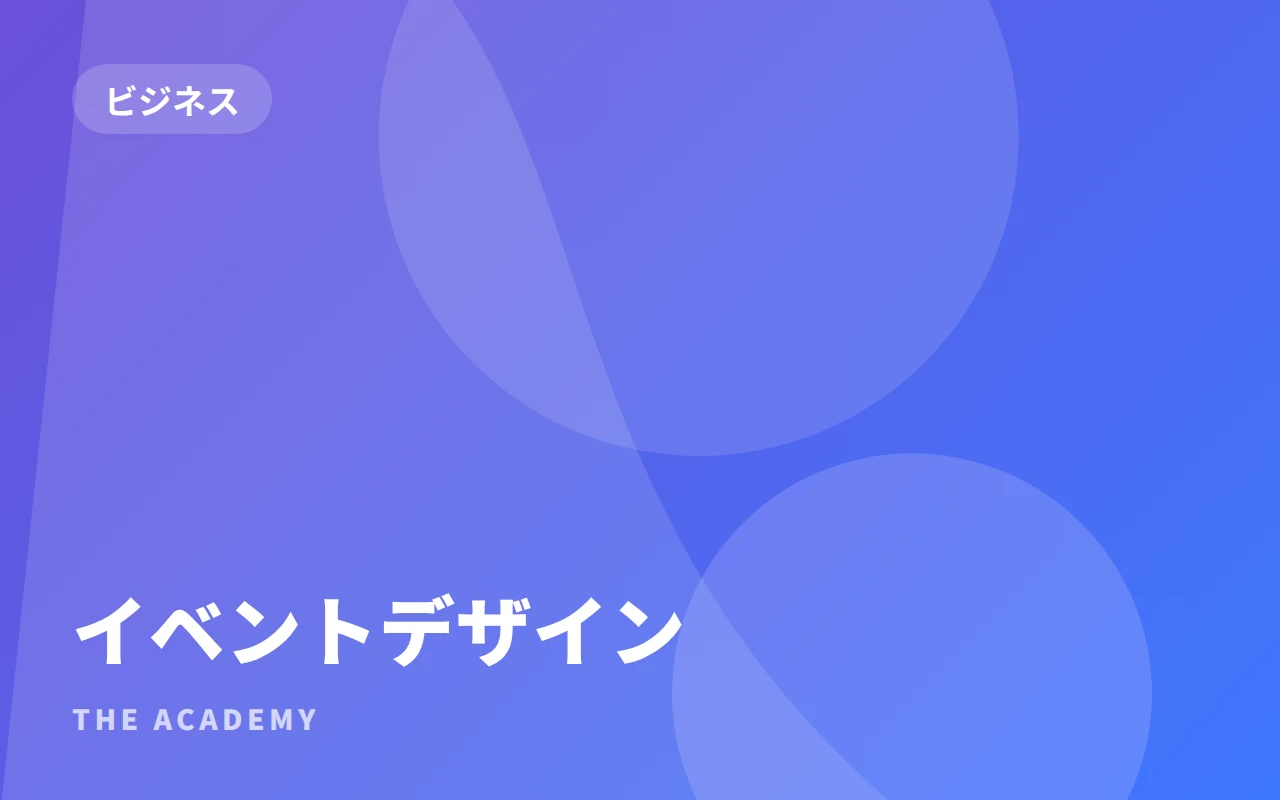
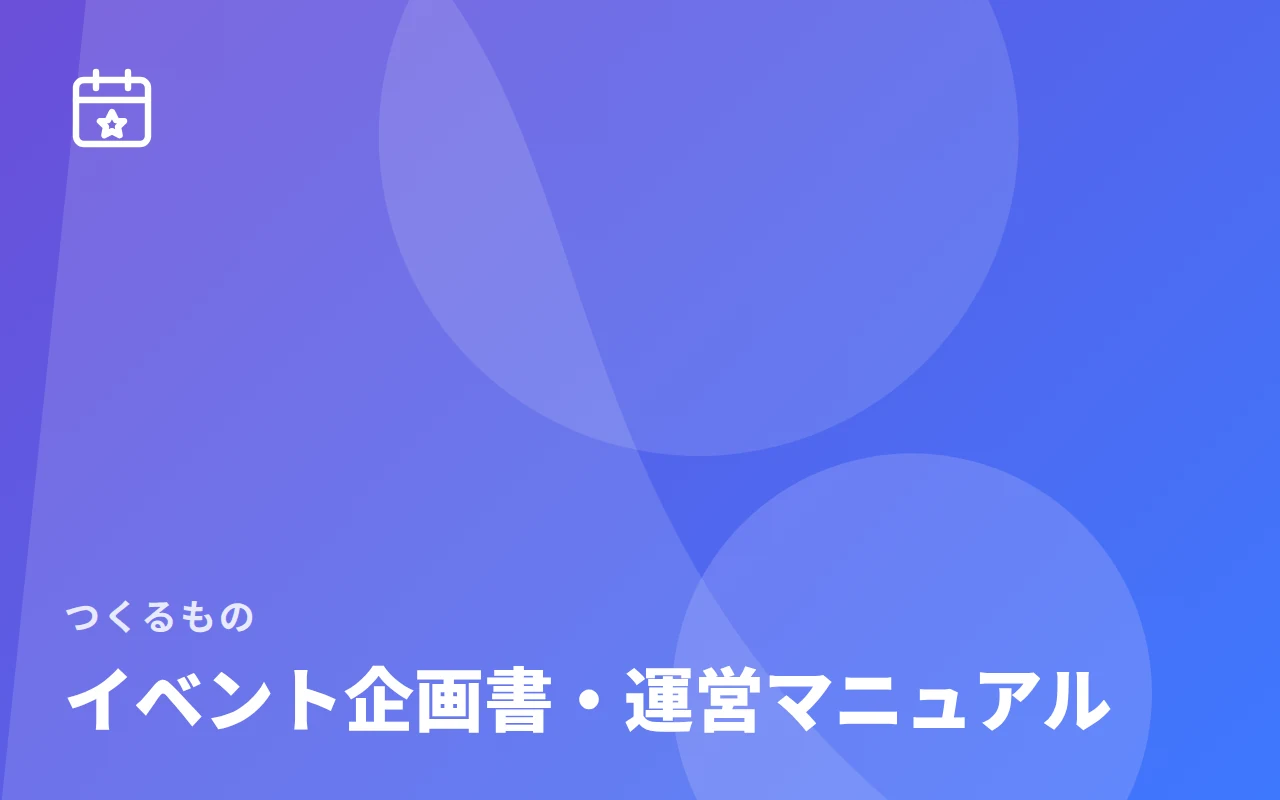
サムネイルの中身を「つくるもの」（成果物の名前）に変更（背景は C-4 のまま）
- コース名・カテゴリはカードに出るため、サムネイルには小さな線アイコンと成果物の名前を入れる
- 成果物の名前（DELIV）を gen_courses.py に移し、コース詳細とサムネイルで共通にした

Claude-Session: https://claude.ai/code/session_018bY9jRKEdcKYTrkj9d6ZsY

Changed region(s): [[0.0312, 0.75, 0.875, 0.9375], [0.0312, 0.0625, 0.2188, 0.1875]]

diff --git a/lp/docs/replace-list.html b/lp/docs/replace-list.html
@@ -60,7 +60,7 @@ a:focus-visible, button:focus-visible, input:focus-visible { outline: 2px solid 
 <p class="status" id="st">チェックの保存先に接続しています…</p>
 
 <section id="img" aria-labelledby="h-img"><h2 id="h-img">画像（20）</h2><p>差し替え＝仮のもの、確認＝このまま使えるか判断、確定＝このまま使う。</p>
-<div class="tbl"><table><thead><tr><th><span class="sr">完了</span></th><th>ID</th><th>優先</th><th>状態</th><th>ページ・箇所</th><th>素材と、いまの中身</th><th>対応</th><th>完了の条件</th></tr></thead><tbody><tr data-p="高" data-id="I01"><td><label class="ck" for="c-I01"><input type="checkbox" id="c-I01" data-id="I01" disabled><span class="sr">I01 を完了にする</span></label></td><td class="id">I01</td><td><span class="pr pr--h">高</span></td><td><span class="pill pill--c">確認</span></td><th scope="row">トップ<small>HERO</small></th><td><code>assets/hero.webp</code><p>AIで作った写真（候補から採用）</p></td><td>本番でもこの画像を使うか決める。ほかの案（H-A〜H-D、おすすめは H-B 写真＋成果物カード）を提示済み</td><td class="done">案を決め、写真を使う場合は生成ツールの利用規約と人物の写り（実在の人に見えないか）を確認した</td></tr><tr data-p="高" data-id="I02"><td><label class="ck" for="c-I02"><input type="checkbox" id="c-I02" data-id="I02" disabled><span class="sr">I02 を完了にする</span></label></td><td class="id">I02</td><td><span class="pr pr--h">高</span></td><td><span class="pill pill--o">確定</span></td><th scope="row">ポートフォリオ・はじめての方へ<small>見出し／SHOW／例</small></th><td><code>assets/portfolio/*.webp（12枚）</code><p>実際の画面を匿名化したもの（X風ニックネーム）</p></td><td>そのまま使用（10/8 に確定）</td><td class="done">Wix に入れ、表示を確認した</td></tr><tr data-p="高" data-id="I03"><td><label class="ck" for="c-I03"><input type="checkbox" id="c-I03" data-id="I03" disabled><span class="sr">I03 を完了にする</span></label></td><td class="id">I03</td><td><span class="pr pr--h">高</span></td><td><span class="pill pill--w">差し替え</span></td><th scope="row">コース詳細（SNS 以外の12ページ）<small>成果物の画像</small></th><td><code>（CSS で描いた仮画像）</code><p>カテゴリ色の仮画像＋「成果物の画像（準備中）」</p></td><td>画像の型を選ぶ（D-A〜D-D、おすすめは D-B 成果物の模型。実物ができたら D-A に）→ 全コース分を用意。すべて「作例」と表示</td><td class="done">12コースすべてに成果物の画像が入り、「準備中」の表示がない</td></tr><tr data-p="高" data-id="I04"><td><label class="ck" for="c-I04"><input type="checkbox" id="c-I04" data-id="I04" disabled><span class="sr">I04 を完了にする</span></label></td><td class="id">I04</td><td><span class="pr pr--h">高</span></td><td><span class="pill pill--o">確定</span></td><th scope="row">学び方・受講成果<small>受講成果</small></th><td><code>assets/outcomes/*.webp（6枚）</code><p>見本として作った成果物の画像（各画像に「作例」と表示）</p></td><td>そのまま使用（10/8 に確定。「作例」と明記済み）</td><td class="done">Wix に入れ、各画像に「作例」が表示されている</td></tr><tr data-p="中" data-id="I05"><td><label class="ck" for="c-I05"><input type="checkbox" id="c-I05" data-id="I05" disabled><span class="sr">I05 を完了にする</span></label></td><td class="id">I05</td><td><span class="pr pr--m">中</span></td><td><span class="pill pill--o">確定</span></td><th scope="row">トップ・コースを探す・受講までの流れ<small>人気のコース／コース一覧／流れ／関連するコース</small></th><td><code>assets/thumbs/*.webp（13枚）</code><p>C-4（カテゴリ色のグラデーション＋半透明の形）のサムネイル。gen_thumbs.py でコース一覧のデータから作成</p></td><td>そのまま使用。Wix ストアの商品画像にも同じ画像を入れる。コースを足したら gen_thumbs.py で作る</td><td class="done">Wix の商品画像とサイトのサムネイルが同じ画像になっている</td></tr><tr data-p="中" data-id="I06"><td><label class="ck" for="c-I06"><input type="checkbox" id="c-I06" data-id="I06" disabled><span class="sr">I06 を完了にする</span></label></td><td class="id">I06</td><td><span class="pr pr--m">中</span></td><td><span class="pill pill--w">差し替え</span></td><th scope="row">コース詳細（SNS）・ポートフォリオ<small>成果物／フィード</small></th><td><code>assets/outcomes/sns-design.webp</code><p>SNS の成果物画像（見本）</p></td><td>I03 と同じ型で用意（「作例」と表示）</td><td class="done">I03 と同じ型になっている</td></tr><tr data-p="中" data-id="I07"><td><label class="ck" for="c-I07"><input type="checkbox" id="c-I07" data-id="I07" disabled><span class="sr">I07 を完了にする</span></label></td><td class="id">I07</td><td><span class="pr pr--m">中</span></td><td><span class="pill pill--o">確定</span></td><th scope="row">コースを探す<small>特集</small></th><td><code>assets/courses/feat-slack・feat-toeic.webp</code><p>Slack×GAS・TOEIC の特集画像</p></td><td>そのまま使用（10/8 に確定）</td><td class="done">Wix に入れ、表示を確認した</td></tr><tr data-p="中" data-id="I08"><td><label class="ck" for="c-I08"><input type="checkbox" id="c-I08" data-id="I08" disabled><span class="sr">I08 を完了にする</span></label></td><td class="id">I08</td><td><span class="pr pr--m">中</span></td><td><span class="pill pill--w">差し替え</span></td><th scope="row">トップ・学びのヒント<small>記事カード</small></th><td><code>assets/journal/ai・career・sns.webp</code><p>記事のアイキャッチ（見本）</p></td><td>アイキャッチの型を選ぶ（E-A〜E-D、おすすめは E-B キーワード型）→ 記事ごとに作る</td><td class="done">トップと学びのヒントに出る記事が、実際の記事のアイキャッチになっている</td></tr><tr data-p="中" data-id="I09"><td><label class="ck" for="c-I09"><input type="checkbox" id="c-I09" data-id="I09" disabled><span class="sr">I09 を完了にする</span></label></td><td class="id">I09</td><td><span class="pr pr--m">中</span></td><td><span class="pill pill--w">差し替え</span></td><th scope="row">学びのヒント<small>アクセスの多い記事／評価の高い記事／最新記事</small></th><td><code>assets/outcomes・how・portfolio の画像</code><p>記事のアイキャッチの代わりに、成果物・学び方・ポートフォリオの画像を仮で使用</p></td><td>当面は E-C（同じ枠に入れて「仮の画像」と表示）、記事を公開するときに I08 の型へ</td><td class="done">ほかのページの画像を流用しているカードがない</td></tr><tr data-p="中" data-id="I10"><td><label class="ck" for="c-I10"><input type="checkbox" id="c-I10" data-id="I10" disabled><span class="sr">I10 を完了にする</span></label></td><td class="id">I10</td><td><span class="pr pr--m">中</span></td><td><span class="pill pill--c">確認</span></td><th scope="row">無料相談・資料請求<small>パンフレットのタブ</small></th><td><code>assets/pamphlet/cover.webp</code><p>パンフレットの表紙</p></td><td>最新版のパンフレットの表紙か確認</td><td class="done">ダウンロードできる PDF と同じ表紙になっている</td></tr><tr data-p="中" data-id="I11"><td><label class="ck" for="c-I11"><input type="checkbox" id="c-I11" data-id="I11" disabled><span class="sr">I11 を完了にする</span></label></td><td class="id">I11</td><td><span class="pr pr--m">中</span></td><td><span class="pill pill--w">差し替え</span></td><th scope="row">お役立ち資料<small>新着／一覧</small></th><td><code>（CSS で描いた表紙）</code><p>資料名を書いた色違いの仮の表紙</p></td><td>実際の資料の表紙に</td><td class="done">掲載する資料すべてに実際の表紙が入っている</td></tr><tr data-p="中" data-id="I12"><td><label class="ck" for="c-I12"><input type="checkbox" id="c-I12" data-id="I12" disabled><span class="sr">I12 を完了にする</span></label></td><td class="id">I12</td><td><span class="pr pr--m">中</span></td><td><span class="pill pill--c">確認</span></td><th scope="row">数字の根拠<small>満足度・コース数</small></th><td><code>（SVG で描いたグラフ）</code><p>レーダーチャートとカテゴリ別の棒グラフ</p></td><td>本番の数字に変えたら作り直す</td><td class="done">グラフの値が、表と本文の数字と一致している</td></tr><tr data-p="中" data-id="I13"><td><label class="ck" for="c-I13"><input type="checkbox" id="c-I13" data-id="I13" disabled><span class="sr">I13 を完了にする</span></label></td><td class="id">I13</td><td><span class="pr pr--m">中</span></td><td><span class="pill pill--w">差し替え</span></td><th scope="row">全ページ<small>SNS で共有したときの画像</small></th><td><code>（なし）</code><p>OGP 画像がない</p></td><td>1200×630 の画像を新しく作る</td><td class="done">トップと主要ページで、SNS に URL を貼ると画像が表示される</td></tr><tr data-p="低" data-id="I14"><td><label class="ck" for="c-I14"><input type="checkbox" id="c-I14" data-id="I14" disabled><span class="sr">I14 を完了にする</span></label></td><td class="id">I14</td><td><span class="pr pr--l">低</span></td><td><span class="pill pill--c">確認</span></td><th scope="row">トップ<small>04 ポートフォリオ</small></th><td><code>assets/courses/ai・marketing.webp</code><p>ポートフォリオ画面の中のコース画像</p></td><td>I05 を差し替えたら同じ画像にそろえる</td><td class="done">コースのサムネイルと同じ画像になっている</td></tr><tr data-p="低" data-id="I15"><td><label class="ck" for="c-I15"><input type="checkbox" id="c-I15" data-id="I15" disabled><span class="sr">I15 を完了にする</span></label></td><td class="id">I15</td><td><span class="pr pr--l">低</span></td><td><span class="pill pill--c">確認</span></td><th scope="row">学び方・受講成果<small>4ステップ</small></th><td><code>assets/how/step-01〜04.webp</code><p>学びの4ステップの画面イメージ</p></td><td>実際の受講画面に近いか確認</td><td class="done">実際の画面と大きく違わないと確認した</td></tr><tr data-p="低" data-id="I16"><td><label class="ck" for="c-I16"><input type="checkbox" id="c-I16" data-id="I16" disabled><span class="sr">I16 を完了にする</span></label></td><td class="id">I16</td><td><span class="pr pr--l">低</span></td><td><span class="pill pill--w">差し替え</span></td><th scope="row">記事ページ（見本）<small>冒頭・著者</small></th><td><code>（「写真」の枠）</code><p>著者・監修者の写真の枠</p></td><td>著者の写真を用意（なければ枠ごと外す）</td><td class="done">写真が入っている、または枠がない</td></tr><tr data-p="低" data-id="I17"><td><label class="ck" for="c-I17"><input type="checkbox" id="c-I17" data-id="I17" disabled><span class="sr">I17 を完了にする</span></label></td><td class="id">I17</td><td><span class="pr pr--l">低</span></td><td><span class="pill pill--o">確定</span></td><th scope="row">はじめての方へ<small>ABOUT／FOR YOU</small></th><td><code>assets/illust/about-community・for-you-1〜3.webp</code><p>作成したイラスト</p></td><td>そのまま使用</td><td class="done">Wix に入れ、表示を確認した</td></tr><tr data-p="低" data-id="I18"><td><label class="ck" for="c-I18"><input type="checkbox" id="c-I18" data-id="I18" disabled><span class="sr">I18 を完了にする</span></label></td><td class="id">I18</td><td><span class="pr pr--l">低</span></td><td><span class="pill pill--o">確定</span></td><th scope="row">全ページ<small>NEXT STEP</small></th><td><code>assets/illust/next-zoom.webp</code><p>オンライン相談の画面とパンフレットのイラスト（17か所で共通）</p></td><td>そのまま使用</td><td class="done">Wix に入れ、表示を確認した</td></tr><tr data-p="低" data-id="I19"><td><label class="ck" for="c-I19"><input type="checkbox" id="c-I19" data-id="I19" disabled><span class="sr">I19 を完了にする</span></label></td><td class="id">I19</td><td><span class="pr pr--l">低</span></td><td><span class="pill pill--o">確定</span></td><th scope="row">全ページ<small>ヘッダー・フッター</small></th><td><code>assets/academy_logo_blue_trim.png</code><p>ロゴ</p></td><td>そのまま使用（SVG があれば SVG）</td><td class="done">Wix に入れ、表示を確認した</td></tr><tr data-p="低" data-id="I20"><td><label class="ck" for="c-I20"><input type="checkbox" id="c-I20" data-id="I20" disabled><span class="sr">I20 を完了にする</span></label></td><td class="id">I20</td><td><span class="pr pr--l">低</span></td><td><span class="pill pill--o">確定</span></td><th scope="row">数字の根拠<small>自由回答</small></th><td><code>assets/avatars/*.svg（3種）</code><p>用意いただいたアイコン</p></td><td>そのまま使用</td><td class="done">Wix に入れ、表示を確認した</td></tr></tbody></table></div></section>
+<div class="tbl"><table><thead><tr><th><span class="sr">完了</span></th><th>ID</th><th>優先</th><th>状態</th><th>ページ・箇所</th><th>素材と、いまの中身</th><th>対応</th><th>完了の条件</th></tr></thead><tbody><tr data-p="高" data-id="I01"><td><label class="ck" for="c-I01"><input type="checkbox" id="c-I01" data-id="I01" disabled><span class="sr">I01 を完了にする</span></label></td><td class="id">I01</td><td><span class="pr pr--h">高</span></td><td><span class="pill pill--c">確認</span></td><th scope="row">トップ<small>HERO</small></th><td><code>assets/hero.webp</code><p>AIで作った写真（候補から採用）</p></td><td>本番でもこの画像を使うか決める。ほかの案（H-A〜H-D、おすすめは H-B 写真＋成果物カード）を提示済み</td><td class="done">案を決め、写真を使う場合は生成ツールの利用規約と人物の写り（実在の人に見えないか）を確認した</td></tr><tr data-p="高" data-id="I02"><td><label class="ck" for="c-I02"><input type="checkbox" id="c-I02" data-id="I02" disabled><span class="sr">I02 を完了にする</span></label></td><td class="id">I02</td><td><span class="pr pr--h">高</span></td><td><span class="pill pill--o">確定</span></td><th scope="row">ポートフォリオ・はじめての方へ<small>見出し／SHOW／例</small></th><td><code>assets/portfolio/*.webp（12枚）</code><p>実際の画面を匿名化したもの（X風ニックネーム）</p></td><td>そのまま使用（10/8 に確定）</td><td class="done">Wix に入れ、表示を確認した</td></tr><tr data-p="高" data-id="I03"><td><label class="ck" for="c-I03"><input type="checkbox" id="c-I03" data-id="I03" disabled><span class="sr">I03 を完了にする</span></label></td><td class="id">I03</td><td><span class="pr pr--h">高</span></td><td><span class="pill pill--w">差し替え</span></td><th scope="row">コース詳細（SNS 以外の12ページ）<small>成果物の画像</small></th><td><code>（CSS で描いた仮画像）</code><p>カテゴリ色の仮画像＋「成果物の画像（準備中）」</p></td><td>画像の型を選ぶ（D-A〜D-D、おすすめは D-B 成果物の模型。実物ができたら D-A に）→ 全コース分を用意。すべて「作例」と表示</td><td class="done">12コースすべてに成果物の画像が入り、「準備中」の表示がない</td></tr><tr data-p="高" data-id="I04"><td><label class="ck" for="c-I04"><input type="checkbox" id="c-I04" data-id="I04" disabled><span class="sr">I04 を完了にする</span></label></td><td class="id">I04</td><td><span class="pr pr--h">高</span></td><td><span class="pill pill--o">確定</span></td><th scope="row">学び方・受講成果<small>受講成果</small></th><td><code>assets/outcomes/*.webp（6枚）</code><p>見本として作った成果物の画像（各画像に「作例」と表示）</p></td><td>そのまま使用（10/8 に確定。「作例」と明記済み）</td><td class="done">Wix に入れ、各画像に「作例」が表示されている</td></tr><tr data-p="中" data-id="I05"><td><label class="ck" for="c-I05"><input type="checkbox" id="c-I05" data-id="I05" disabled><span class="sr">I05 を完了にする</span></label></td><td class="id">I05</td><td><span class="pr pr--m">中</span></td><td><span class="pill pill--o">確定</span></td><th scope="row">トップ・コースを探す・受講までの流れ<small>人気のコース／コース一覧／流れ／関連するコース</small></th><td><code>assets/thumbs/*.webp（13枚）</code><p>C-4 の背景＋「つくるもの」（成果物の名前）のサムネイル。gen_thumbs.py でコース一覧のデータから作成。成果物の名前が決まったら作り直す（T05）</p></td><td>そのまま使用。Wix ストアの商品画像にも同じ画像を入れる。コースを足したら gen_thumbs.py で作る</td><td class="done">Wix の商品画像とサイトのサムネイルが同じ画像になっている</td></tr><tr data-p="中" data-id="I06"><td><label class="ck" for="c-I06"><input type="checkbox" id="c-I06" data-id="I06" disabled><span class="sr">I06 を完了にする</span></label></td><td class="id">I06</td><td><span class="pr pr--m">中</span></td><td><span class="pill pill--w">差し替え</span></td><th scope="row">コース詳細（SNS）・ポートフォリオ<small>成果物／フィード</small></th><td><code>assets/outcomes/sns-design.webp</code><p>SNS の成果物画像（見本）</p></td><td>I03 と同じ型で用意（「作例」と表示）</td><td class="done">I03 と同じ型になっている</td></tr><tr data-p="中" data-id="I07"><td><label class="ck" for="c-I07"><input type="checkbox" id="c-I07" data-id="I07" disabled><span class="sr">I07 を完了にする</span></label></td><td class="id">I07</td><td><span class="pr pr--m">中</span></td><td><span class="pill pill--o">確定</span></td><th scope="row">コースを探す<small>特集</small></th><td><code>assets/courses/feat-slack・feat-toeic.webp</code><p>Slack×GAS・TOEIC の特集画像</p></td><td>そのまま使用（10/8 に確定）</td><td class="done">Wix に入れ、表示を確認した</td></tr><tr data-p="中" data-id="I08"><td><label class="ck" for="c-I08"><input type="checkbox" id="c-I08" data-id="I08" disabled><span class="sr">I08 を完了にする</span></label></td><td class="id">I08</td><td><span class="pr pr--m">中</span></td><td><span class="pill pill--w">差し替え</span></td><th scope="row">トップ・学びのヒント<small>記事カード</small></th><td><code>assets/journal/ai・career・sns.webp</code><p>記事のアイキャッチ（見本）</p></td><td>アイキャッチの型を選ぶ（E-A〜E-D、おすすめは E-B キーワード型）→ 記事ごとに作る</td><td class="done">トップと学びのヒントに出る記事が、実際の記事のアイキャッチになっている</td></tr><tr data-p="中" data-id="I09"><td><label class="ck" for="c-I09"><input type="checkbox" id="c-I09" data-id="I09" disabled><span class="sr">I09 を完了にする</span></label></td><td class="id">I09</td><td><span class="pr pr--m">中</span></td><td><span class="pill pill--w">差し替え</span></td><th scope="row">学びのヒント<small>アクセスの多い記事／評価の高い記事／最新記事</small></th><td><code>assets/outcomes・how・portfolio の画像</code><p>記事のアイキャッチの代わりに、成果物・学び方・ポートフォリオの画像を仮で使用</p></td><td>当面は E-C（同じ枠に入れて「仮の画像」と表示）、記事を公開するときに I08 の型へ</td><td class="done">ほかのページの画像を流用しているカードがない</td></tr><tr data-p="中" data-id="I10"><td><label class="ck" for="c-I10"><input type="checkbox" id="c-I10" data-id="I10" disabled><span class="sr">I10 を完了にする</span></label></td><td class="id">I10</td><td><span class="pr pr--m">中</span></td><td><span class="pill pill--c">確認</span></td><th scope="row">無料相談・資料請求<small>パンフレットのタブ</small></th><td><code>assets/pamphlet/cover.webp</code><p>パンフレットの表紙</p></td><td>最新版のパンフレットの表紙か確認</td><td class="done">ダウンロードできる PDF と同じ表紙になっている</td></tr><tr data-p="中" data-id="I11"><td><label class="ck" for="c-I11"><input type="checkbox" id="c-I11" data-id="I11" disabled><span class="sr">I11 を完了にする</span></label></td><td class="id">I11</td><td><span class="pr pr--m">中</span></td><td><span class="pill pill--w">差し替え</span></td><th scope="row">お役立ち資料<small>新着／一覧</small></th><td><code>（CSS で描いた表紙）</code><p>資料名を書いた色違いの仮の表紙</p></td><td>実際の資料の表紙に</td><td class="done">掲載する資料すべてに実際の表紙が入っている</td></tr><tr data-p="中" data-id="I12"><td><label class="ck" for="c-I12"><input type="checkbox" id="c-I12" data-id="I12" disabled><span class="sr">I12 を完了にする</span></label></td><td class="id">I12</td><td><span class="pr pr--m">中</span></td><td><span class="pill pill--c">確認</span></td><th scope="row">数字の根拠<small>満足度・コース数</small></th><td><code>（SVG で描いたグラフ）</code><p>レーダーチャートとカテゴリ別の棒グラフ</p></td><td>本番の数字に変えたら作り直す</td><td class="done">グラフの値が、表と本文の数字と一致している</td></tr><tr data-p="中" data-id="I13"><td><label class="ck" for="c-I13"><input type="checkbox" id="c-I13" data-id="I13" disabled><span class="sr">I13 を完了にする</span></label></td><td class="id">I13</td><td><span class="pr pr--m">中</span></td><td><span class="pill pill--w">差し替え</span></td><th scope="row">全ページ<small>SNS で共有したときの画像</small></th><td><code>（なし）</code><p>OGP 画像がない</p></td><td>1200×630 の画像を新しく作る</td><td class="done">トップと主要ページで、SNS に URL を貼ると画像が表示される</td></tr><tr data-p="低" data-id="I14"><td><label class="ck" for="c-I14"><input type="checkbox" id="c-I14" data-id="I14" disabled><span class="sr">I14 を完了にする</span></label></td><td class="id">I14</td><td><span class="pr pr--l">低</span></td><td><span class="pill pill--c">確認</span></td><th scope="row">トップ<small>04 ポートフォリオ</small></th><td><code>assets/courses/ai・marketing.webp</code><p>ポートフォリオ画面の中のコース画像</p></td><td>I05 を差し替えたら同じ画像にそろえる</td><td class="done">コースのサムネイルと同じ画像になっている</td></tr><tr data-p="低" data-id="I15"><td><label class="ck" for="c-I15"><input type="checkbox" id="c-I15" data-id="I15" disabled><span class="sr">I15 を完了にする</span></label></td><td class="id">I15</td><td><span class="pr pr--l">低</span></td><td><span class="pill pill--c">確認</span></td><th scope="row">学び方・受講成果<small>4ステップ</small></th><td><code>assets/how/step-01〜04.webp</code><p>学びの4ステップの画面イメージ</p></td><td>実際の受講画面に近いか確認</td><td class="done">実際の画面と大きく違わないと確認した</td></tr><tr data-p="低" data-id="I16"><td><label class="ck" for="c-I16"><input type="checkbox" id="c-I16" data-id="I16" disabled><span class="sr">I16 を完了にする</span></label></td><td class="id">I16</td><td><span class="pr pr--l">低</span></td><td><span class="pill pill--w">差し替え</span></td><th scope="row">記事ページ（見本）<small>冒頭・著者</small></th><td><code>（「写真」の枠）</code><p>著者・監修者の写真の枠</p></td><td>著者の写真を用意（なければ枠ごと外す）</td><td class="done">写真が入っている、または枠がない</td></tr><tr data-p="低" data-id="I17"><td><label class="ck" for="c-I17"><input type="checkbox" id="c-I17" data-id="I17" disabled><span class="sr">I17 を完了にする</span></label></td><td class="id">I17</td><td><span class="pr pr--l">低</span></td><td><span class="pill pill--o">確定</span></td><th scope="row">はじめての方へ<small>ABOUT／FOR YOU</small></th><td><code>assets/illust/about-community・for-you-1〜3.webp</code><p>作成したイラスト</p></td><td>そのまま使用</td><td class="done">Wix に入れ、表示を確認した</td></tr><tr data-p="低" data-id="I18"><td><label class="ck" for="c-I18"><input type="checkbox" id="c-I18" data-id="I18" disabled><span class="sr">I18 を完了にする</span></label></td><td class="id">I18</td><td><span class="pr pr--l">低</span></td><td><span class="pill pill--o">確定</span></td><th scope="row">全ページ<small>NEXT STEP</small></th><td><code>assets/illust/next-zoom.webp</code><p>オンライン相談の画面とパンフレットのイラスト（17か所で共通）</p></td><td>そのまま使用</td><td class="done">Wix に入れ、表示を確認した</td></tr><tr data-p="低" data-id="I19"><td><label class="ck" for="c-I19"><input type="checkbox" id="c-I19" data-id="I19" disabled><span class="sr">I19 を完了にする</span></label></td><td class="id">I19</td><td><span class="pr pr--l">低</span></td><td><span class="pill pill--o">確定</span></td><th scope="row">全ページ<small>ヘッダー・フッター</small></th><td><code>assets/academy_logo_blue_trim.png</code><p>ロゴ</p></td><td>そのまま使用（SVG があれば SVG）</td><td class="done">Wix に入れ、表示を確認した</td></tr><tr data-p="低" data-id="I20"><td><label class="ck" for="c-I20"><input type="checkbox" id="c-I20" data-id="I20" disabled><span class="sr">I20 を完了にする</span></label></td><td class="id">I20</td><td><span class="pr pr--l">低</span></td><td><span class="pill pill--o">確定</span></td><th scope="row">数字の根拠<small>自由回答</small></th><td><code>assets/avatars/*.svg（3種）</code><p>用意いただいたアイコン</p></td><td>そのまま使用</td><td class="done">Wix に入れ、表示を確認した</td></tr></tbody></table></div></section>
 
 <section id="tmp" aria-labelledby="h-tmp"><h2 id="h-tmp">仮置き（26）</h2><p>サイト上でオレンジの印（要確認・仮の数字など）が付いている箇所、行き先のないリンク、送信されない見本のフォームです。</p>
 <div class="tbl"><table><thead><tr><th><span class="sr">完了</span></th><th>ID</th><th>優先</th><th>分類</th><th>ページ・箇所</th><th>いまの表示</th><th>必要なもの</th><th>完了の条件</th></tr></thead><tbody><tr data-p="高" data-id="T01"><td><label class="ck" for="c-T01"><input type="checkbox" id="c-T01" data-id="T01" disabled><span class="sr">T01 を完了にする</span></label></td><td class="id">T01</td><td><span class="pr pr--h">高</span></td><td><span class="tag">数字</span></td><th scope="row">トップ<small>HERO の実績</small></th><td>「2026年◯月時点 要確認」「受講生アンケート・回答◯名 要確認」</td><td>数字の根拠ページと同じ値にそろえる</td><td class="done">ヒーローと数字の根拠ページの時点・回答数が一致し、「◯」「要確認」がない</td></tr><tr data-p="高" data-id="T02"><td><label class="ck" for="c-T02"><input type="checkbox" id="c-T02" data-id="T02" disabled><span class="sr">T02 を完了にする</span></label></td><td class="id">T02</td><td><span class="pr pr--h">高</span></td><td><span class="tag">数字</span></td><th scope="row">数字の根拠<small>平均満足度</small></th><td>総合4.2・5項目の平均・期間・回答128名（回答率42％）＝すべて仮</td><td>アンケートの実際の集計</td><td class="done">すべて実際の集計値になり、「仮の数字」の印がない</td></tr><tr data-p="高" data-id="T03"><td><label class="ck" for="c-T03"><input type="checkbox" id="c-T03" data-id="T03" disabled><span class="sr">T03 を完了にする</span></label></td><td class="id">T03</td><td><span class="pr pr--h">高</span></td><td><span class="tag">見本</span></td><th scope="row">数字の根拠<small>自由回答3件</small></th><td>声とニックネームは見本</td><td>本人の了承を得た実際の回答（集まらなければセクションごと外す）</td><td class="done">実際の回答に差し替えた、またはセクションがない（見本の声を公開しない）</td></tr><tr data-p="高" data-id="T04"><td><label class="ck" for="c-T04"><input type="checkbox" id="c-T04" data-id="T04" disabled><span class="sr">T04 を完了にする</span></label></td><td class="id">T04</td><td><span class="pr pr--h">高</span></td><td><span class="tag">価格</span></td><th scope="row">トップ・コースを探す・コース詳細<small>SNSマーケティング実践・生成AI 業務改善・TOEIC 700点</small></th><td>「¥—」（価格の確定待ち）</td><td>税込価格（ほかの10コースは今のサイトの価格を表示中）</td><td class="done">全コースに税込価格が入り、ストアの商品価格と一致している</td></tr><tr data-p="高" data-id="T05"><td><label class="ck" for="c-T05"><input type="checkbox" id="c-T05" data-id="T05" disabled><span class="sr">T05 を完了にする</span></label></td><td class="id">T05</td><td><span class="pr pr--h">高</span></td><td><span class="tag">コース</span></td><th scope="row">コース詳細（12ページ）<small>成果物</small></th><td>成果物の名前（例）と仮画像</td><td>各コースで完成する成果物の名前と画像</td><td class="done">12コースで成果物の名前が確定し、「（例）」「仮」の印がない</td></tr><tr data-p="高" data-id="T06"><td><label class="ck" for="c-T06"><input type="checkbox" id="c-T06" data-id="T06" disabled><span class="sr">T06 を完了にする</span></label></td><td class="id">T06</td><td><span class="pr pr--h">高</span></td><td><span class="tag">リンク</span></td><th scope="row">全ページ<small>ヘッダーの「ログイン」</small></th><td>/login（行き先なし）</td><td>ログインの URL</td><td class="done">全ページでログインを押すとログイン画面が開く</td></tr><tr data-p="高" data-id="T07"><td><label class="ck" for="c-T07"><input type="checkbox" id="c-T07" data-id="T07" disabled><span class="sr">T07 を完了にする</span></label></td><td class="id">T07</td><td><span class="pr pr--h">高</span></td><td><span class="tag">リンク</span></td><th scope="row">コース詳細（13ページ）<small>「このコースを受講する」・スマホの固定バー</small></th><td>#（行き先なし）</td><td>カート（ストアの商品）の URL</td><td class="done">13ページすべてで、押すと正しい商品のカートに入る</td></tr><tr data-p="高" data-id="T08"><td><label class="ck" for="c-T08"><input type="checkbox" id="c-T08" data-id="T08" disabled><span class="sr">T08 を完了にする</span></label></td><td class="id">T08</td><td><span class="pr pr--h">高</span></td><td><span class="tag">リンク</span></td><th scope="row">全ページ<small>公式LINE のボタン・浮かぶボタン</small></th><td>はじめての方への LINE 欄に移動するだけ</td><td>友だち追加の URL</td><td class="done">LINE のボタンを押すと友だち追加の画面が開く</td></tr><tr data-p="高" data-id="T09"><td><label class="ck" for="c-T09"><input type="checkbox" id="c-T09" data-id="T09" disabled><span class="sr">T09 を完了にする</span></label></td><td class="id">T09</td><td><span class="pr pr--h">高</span></td><td><span class="tag">リンク</span></td><th scope="row">無料相談・資料請求<small>「パンフレット（PDF）をダウンロード」</small></th><td>#（行き先なし）</td><td>パンフレットの PDF</td><td class="done">送信後に最新版のパンフレットをダウンロードできる</td></tr><tr data-p="高" data-id="T10"><td><label class="ck" for="c-T10"><input type="checkbox" id="c-T10" data-id="T10" disabled><span class="sr">T10 を完了にする</span></label></td><td class="id">T10</td><td><span class="pr pr--h">高</span></td><td><span class="tag">機能</span></td><th scope="row">無料相談・資料請求<small>日時の表</small></th><td>空き状況は表示例</td><td>予約の仕組み（Wix ブッキングなど）と予約枠</td><td class="done">実際の空き枠から予約でき、確認メールと Zoom の URL が届く</td></tr><tr data-p="高" data-id="T11"><td><label class="ck" for="c-T11"><input type="checkbox" id="c-T11" data-id="T11" disabled><span class="sr">T11 を完了にする</span></label></td><td class="id">T11</td><td><span class="pr pr--h">高</span></td><td><span class="tag">機能</span></td><th scope="row">無料相談・資料請求<small>パンフレット・お問い合わせのフォーム</small></th><td>送信されない見本（「※このページは見本です」）</td><td>受信先と自動メール</td><td class="done">送信すると連絡先に入り、自動返信と担当者への通知が届く。「見本」の表示がない</td></tr><tr data-p="高" data-id="T12"><td><label class="ck" for="c-T12"><input type="checkbox" id="c-T12" data-id="T12" disabled><span class="sr">T12 を完了にする</span></label></td><td class="id">T12</td><td><span class="pr pr--h">高</span></td><td><span class="tag">法務</span></td><th scope="row">特商法・プライバシー・利用規約<small>末尾</small></th><td>制定日・最終更新日「2026年◯月◯日」</td><td>公開日</td><td class="done">3ページに日付が入っている（専門家の確認も済み）</td></tr><tr data-p="中" data-id="T13"><td><label class="ck" for="c-T13"><input type="checkbox" id="c-T13" data-id="T13" disabled><span class="sr">T13 を完了にする</span></label></td><td class="id">T13</td><td><span class="pr pr--m">中</span></td><td><span class="tag">数字</span></td><th scope="row">数字の根拠<small>コース数</small></th><td>12コース（Slack×GAS は数えない）</td><td>Slack×GAS を含めるかの判断</td><td class="done">判断が決まり、ヒーローと根拠ページの数え方が一致している</td></tr><tr data-p="中" data-id="T14"><td><label class="ck" for="c-T14"><input type="checkbox" id="c-T14" data-id="T14" disabled><span class="sr">T14 を完了にする</span></label></td><td class="id">T14</td><td><span class="pr pr--m">中</span></td><td><span class="tag">数字</span></td><th scope="row">コースを探す<small>コースを比べる</small></th><td>「確認中」「※」の項目</td><td>各コースの実際の値</td><td class="done">比較表に「確認中」「※」がない</td></tr><tr data-p="中" data-id="T15"><td><label class="ck" for="c-T15"><input type="checkbox" id="c-T15" data-id="T15" disabled><span class="sr">T15 を完了にする</span></label></td><td class="id">T15</td><td><span class="pr pr--m">中</span></td><td><span class="tag">コース</span></td><th scope="row">コース詳細（13ページ）<small>学習の流れ</small></th><td>販売中の8コースは今のサイトの章立て（カリキュラム）を表示。SNS は8週の見本、生成AI・TOEIC・初級編 ChatGPT・プロジェクトマネジメントは共通の4ステップ（「内容は仮」）</td><td>残り5コースの実際の流れ</td><td class="done">13コースで流れが確定し、「内容は仮」の印がない</td></tr><tr data-p="中" data-id="T16"><td><label class="ck" for="c-T16"><input type="checkbox" id="c-T16" data-id="T16" disabled><span class="sr">T16 を完了にする</span></label></td><td class="id">T16</td><td><span class="pr pr--m">中</span></td><td><span class="tag">コース</span></td><th scope="row">コース詳細・コースを探す（2コース）<small>学習の目安</small></th><td>販売中の8コースは今のサイトの章数・動画時間を表示。初級編 ChatGPT・プロジェクトマネジメントは空欄（今のサイトでは販売停止）</td><td>2コースを続けるか、続けるなら章数と時間</td><td class="done">全コースに学習の目安が入っている</td></tr><tr data-p="中" data-id="T17"><td><label class="ck" for="c-T17"><input type="checkbox" id="c-T17" data-id="T17" disabled><span class="sr">T17 を完了にする</span></label></td><td class="id">T17</td><td><span class="pr pr--m">中</span></td><td><span class="tag">リンク</span></td><th scope="row">全ページ<small>フッターの SNS アイコン8つ</small></th><td>#（行き先なし）</td><td>各 SNS の URL。使っていないものは外す</td><td class="done">残したアイコンすべてが正しいアカウントに移動する（Wix の初期リンクがない）</td></tr><tr data-p="中" data-id="T18"><td><label class="ck" for="c-T18"><input type="checkbox" id="c-T18" data-id="T18" disabled><span class="sr">T18 を完了にする</span></label></td><td class="id">T18</td><td><span class="pr pr--m">中</span></td><td><span class="tag">リンク</span></td><th scope="row">ポートフォリオ<small>「無料で登録する」（2か所）</small></th><td>同じページの「はじめかた」に移動するだけ</td><td>登録ページの URL</td><td class="done">押すと登録ページが開く</td></tr><tr data-p="中" data-id="T19"><td><label class="ck" for="c-T19"><input type="checkbox" id="c-T19" data-id="T19" disabled><span class="sr">T19 を完了にする</span></label></td><td class="id">T19</td><td><span class="pr pr--m">中</span></td><td><span class="tag">リンク</span></td><th scope="row">トップ・学びのヒント・記事<small>記事11本</small></th><td>/blog/〜（行き先なし）</td><td>今の Wix ブログの記事 URL</td><td class="done">記事カードを押すと実際の記事が開く</td></tr><tr data-p="中" data-id="T20"><td><label class="ck" for="c-T20"><input type="checkbox" id="c-T20" data-id="T20" disabled><span class="sr">T20 を完了にする</span></label></td><td class="id">T20</td><td><span class="pr pr--m">中</span></td><td><span class="tag">リンク</span></td><th scope="row">お役立ち資料<small>ダウンロード</small></th><td>PDF の URL なし</td><td>各資料の PDF</td><td class="done">掲載するすべての資料がダウンロードできる</td></tr><tr data-p="中" data-id="T21"><td><label class="ck" for="c-T21"><input type="checkbox" id="c-T21" data-id="T21" disabled><span class="sr">T21 を完了にする</span></label></td><td class="id">T21</td><td><span class="pr pr--m">中</span></td><td><span class="tag">機能</span></td><th scope="row">お役立ち資料<small>受け取りのフォーム</small></th><td>送信先なし</td><td>受け取り方式と送信先（エンジニアと相談）</td><td class="done">方式が決まり、送信すると連絡先に入る</td></tr><tr data-p="中" data-id="T22"><td><label class="ck" for="c-T22"><input type="checkbox" id="c-T22" data-id="T22" disabled><span class="sr">T22 を完了にする</span></label></td><td class="id">T22</td><td><span class="pr pr--m">中</span></td><td><span class="tag">見本</span></td><th scope="row">学びのヒント<small>記事一覧</small></th><td>記事タイトル・日付・評価は見本</td><td>実際の記事</td><td class="done">一覧に実際の記事だけが並ぶ</td></tr><tr data-p="中" data-id="T23"><td><label class="ck" for="c-T23"><input type="checkbox" id="c-T23" data-id="T23" disabled><span class="sr">T23 を完了にする</span></label></td><td class="id">T23</td><td><span class="pr pr--m">中</span></td><td><span class="tag">見本</span></td><th scope="row">記事ページ<small>本文・著者</small></th><td>本文は見本、著者名・監修者名・紹介文は仮</td><td>実際の記事と著者</td><td class="done">記事テンプレートに実際の著者情報が入る</td></tr><tr data-p="中" data-id="T24"><td><label class="ck" for="c-T24"><input type="checkbox" id="c-T24" data-id="T24" disabled><span class="sr">T24 を完了にする</span></label></td><td class="id">T24</td><td><span class="pr pr--m">中</span></td><td><span class="tag">見本</span></td><th scope="row">お役立ち資料<small>資料6件</small></th><td>資料名・説明・ページ数は見本</td><td>実際の資料</td><td class="done">一覧に実際の資料だけが並ぶ</td></tr><tr data-p="低" data-id="T25"><td><label class="ck" for="c-T25"><input type="checkbox" id="c-T25" data-id="T25" disabled><span class="sr">T25 を完了にする</span></label></td><td class="id">T25</td><td><span class="pr pr--l">低</span></td><td><span class="tag">数字</span></td><th scope="row">学びのヒント<small>記事カード</small></th><td>いいね・役に立ったの数（142／128／118 など）、日付</td><td>実際の数字（出さない選択も可）</td><td class="done">実際の数字になった、または数字を出さない</td></tr><tr data-p="低" data-id="T26"><td><label class="ck" for="c-T26"><input type="checkbox" id="c-T26" data-id="T26" disabled><span class="sr">T26 を完了にする</span></label></td><td class="id">T26</td><td><span class="pr pr--l">低</span></td><td><span class="tag">確認</span></td><th scope="row">無料相談・資料請求<small>「顔を出さないといけませんか？」</small></th><td>「カメラはオフでも参加できます」に要確認の印</td><td>カメラオフで参加できるか</td><td class="done">回答が確定し、要確認の印がない</td></tr></tbody></table></div></section>

diff --git a/lp/scripts/gen_thumbs.py b/lp/scripts/gen_thumbs.py
@@ -1,5 +1,6 @@
-# コースのサムネイル（C-4：カテゴリ色のグラデーション＋半透明の形）を、コース一覧のデータから画像で書き出す
-# 出力：lp/assets/thumbs/<slug>.webp（1280×800）。コースを足したら NAME に改行位置を1行足して（不要なら省略可）、このスクリプトを実行する
+# コースのサムネイル（C-4 の背景＋X-2「つくるもの」）を、コース一覧のデータから画像で書き出す
+# 中身は小さな線アイコン＋「つくるもの」＋成果物の名前（gen_courses.py の DELIV）。コース名はカードに出るので入れない
+# 出力：lp/assets/thumbs/<slug>.webp（1280×800）。コースを足したら DELIV（gen_courses.py）と ICON に1行ずつ足して、このスクリプトを実行する
 # 形の位置・グラデーションの角度はコースの slug から決まる（同じ slug なら毎回同じ画像）
 #   python3 lp/scripts/gen_thumbs.py && NODE_PATH=$(npm root -g) node lp/scripts/gen_thumbs.js
 import os, html, tempfile, json, hashlib, random
@@ -8,29 +9,42 @@ TMP_COURSES = os.path.join(tempfile.gettempdir(), 'ta_courses_tmp.html')
 g = {'__file__': os.path.join(S, 'gen_courses.py')}
 os.environ['TA_COURSES_OUT'] = TMP_COURSES
 exec(open(os.path.join(S, 'gen_courses.py')).read(), g)
-CAT, C, cur_meta = g['CAT'], g['C'], g['cur_meta']
+CAT, C, DELIV = g['CAT'], g['C'], g['DELIV']
 # カテゴリごとのグラデーション（カテゴリ色 → ブランドの青系、3つ目は形の差し色）
 GR = {'it': ('#1E9E62', '#3E78FE', '#BFEAD3'), 'mk': ('#E46A1F', '#F29A50', '#FFD9C2'), 'en': ('#0141D4', '#3E78FE', '#B9CCFF'),
       'biz': ('#6B4FD8', '#3E78FE', '#D5CCFF'), 'cr': ('#D9467A', '#F76B38', '#F9C8D8')}
 def rnd(slug): return random.Random(int(hashlib.md5(slug.encode()).hexdigest()[:8], 16))
-# サムネイルでのコース名の改行位置（<wbr>）
-NAME = {'sns-marketing': 'SNSマーケティング<wbr>実践', 'ai-efficiency': '生成AI<wbr> 業務改善', 'toeic-700': 'TOEIC L&R<wbr> 700点突破', 'marketing-basic': 'マーケティング<wbr>戦略基礎', 'automation': '自動化ツール<wbr>開発', 'chatgpt-basic': '初級編<wbr> ChatGPT', 'line-official': '公式LINE<wbr>運用', 'business-english': 'ビジネス英語<wbr>初級', 'project-management': 'プロジェクト<wbr>マネジメント', 'slack-gas-task': 'Slack×GAS<wbr> スマート管理ツール'}
+P = {  # 線アイコン（24×24）
+ 'palette': '<path d="M12 3a9 9 0 0 0 0 18c1.2 0 1.8-.9 1.4-1.9-.4-1 .3-2.1 1.4-2.1H17a4 4 0 0 0 4-4 9 9 0 0 0-9-10z"/><circle cx="7.5" cy="11" r="1.2"/><circle cx="10.5" cy="7" r="1.2"/><circle cx="15" cy="7.5" r="1.2"/>',
+ 'gear': '<circle cx="12" cy="12" r="3"/><path d="M12 2v3M12 19v3M4.9 4.9l2.1 2.1M17 17l2.1 2.1M2 12h3M19 12h3M4.9 19.1 7 17M17 7l2.1-2.1"/>',
+ 'calendar': '<rect x="3" y="5" width="18" height="16" rx="2"/><path d="M3 10h18M8 3v4M16 3v4"/><path d="m12 13 1 2 2 .3-1.5 1.4.4 2.1-1.9-1-1.9 1 .4-2.1L9 15.3l2-.3z"/>',
+ 'camera': '<rect x="3" y="3" width="18" height="18" rx="5"/><circle cx="12" cy="12" r="4"/><circle cx="17.5" cy="6.5" r=".8"/>',
+ 'mail': '<rect x="3" y="5" width="18" height="14" rx="2"/><path d="m3 7 9 6 9-6"/>',
+ 'chart': '<path d="M3 3v18h18"/><path d="m7 15 4-4 3 3 5-6"/><path d="M15 8h4v4"/>',
+ 'chat': '<path d="M12 3.5c5 0 9 3.2 9 7.2s-4 7.2-9 7.2c-.7 0-1.4-.1-2-.2L6 20l.6-3.6C4.4 15 3 13 3 10.7 3 6.7 7 3.5 12 3.5z"/><path d="M8 10h8M8 13h5"/>',
+ 'code': '<path d="m8 8-4 4 4 4M16 8l4 4-4 4M14 5l-4 14"/>',
+ 'mega': '<path d="M4 11v3a1 1 0 0 0 1 1h2l6 4V6L7 10H5a1 1 0 0 0-1 1z"/><path d="M17 9a4 4 0 0 1 0 6M19.5 6.5a8 8 0 0 1 0 11"/>',
+ 'spark': '<path d="M12 3l1.8 5.2L19 10l-5.2 1.8L12 17l-1.8-5.2L5 10l5.2-1.8z"/><path d="M19 15l.8 2.2L22 18l-2.2.8L19 21l-.8-2.2L16 18l2.2-.8z"/>',
+ 'head': '<path d="M4 15v-3a8 8 0 0 1 16 0v3"/><rect x="3" y="14" width="4" height="6" rx="1.5"/><rect x="17" y="14" width="4" height="6" rx="1.5"/>',
+ 'gantt': '<path d="M3 4v16h18"/><path d="M7 7h6M9 11h8M12 15h7"/>',
+}
+ICON = {'sns-marketing': 'mega', 'ai-efficiency': 'spark', 'toeic-700': 'head', 'event-design': 'calendar', 'marketing-basic': 'chart', 'instagram': 'camera', 'automation': 'code',
+        'chatgpt-basic': 'spark', 'line-official': 'chat', 'business-english': 'mail', 'project-management': 'gantt', 'canva-basic': 'palette', 'slack-gas-task': 'gear'}
 rows = [(c[0], html.unescape(c[1]), c[2], c[7], c[5], c[6]) for c in C] + [('slack-gas-task', 'Slack×GAS スマート管理ツール', 'it', 'ツール', '仕様書つき', None)]
 def tile(slug, title, cat, lv, dur, time):
-    name = CAT[cat][0]; c1, c2, c3 = GR[cat]; r = rnd(slug)
+    c1, c2, c3 = GR[cat]; r = rnd(slug)
     x1, y1, x2 = r.randint(-60, 40), r.randint(-80, 0), r.randint(260, 360)
     ang, cy, rad = r.randint(110, 160), r.randint(20, 90), r.randint(110, 150)
-    disp = NAME.get(slug) or html.escape(title)
-    shapes = (f'<svg viewBox="0 0 480 300"><path d="M{x1} {y1} C{x1 + 220} {y1 + 40}, {x1 + 120} {y1 + 230}, {x1 + 300} {y1 + 380} L{x1 - 40} {y1 + 380}Z" fill="#fff" opacity=".13"/>'
+    shapes = (f'<svg class="bg" viewBox="0 0 480 300"><path d="M{x1} {y1} C{x1 + 220} {y1 + 40}, {x1 + 120} {y1 + 230}, {x1 + 300} {y1 + 380} L{x1 - 40} {y1 + 380}Z" fill="#fff" opacity=".13"/>'
               f'<circle cx="{x2}" cy="{cy}" r="{rad}" fill="#fff" opacity=".12"/><circle cx="{x2 + 80}" cy="260" r="90" fill="{c3}" opacity=".22"/></svg>')
-    return (f'<div class="th" id="t-{slug}" style="background:linear-gradient({ang}deg,{c1} 0%,{c2} 100%)">{shapes}<span class="k">{name}</span>'
-            f'<p class="n">{disp}</p><p class="l">THE ACADEMY</p></div>')
+    icon = f'<svg class="i" viewBox="0 0 24 24" fill="none" stroke="currentColor" stroke-width="1.6" stroke-linecap="round" stroke-linejoin="round">{P[ICON[slug]]}</svg>'
+    return (f'<div class="th" id="t-{slug}" style="background:linear-gradient({ang}deg,{c1} 0%,{c2} 100%)">{shapes}{icon}'
+            f'<div class="b"><p class="k">つくるもの</p><p class="d">{DELIV[slug]}</p></div></div>')
 CSS = '''*{box-sizing:border-box;margin:0;padding:0}body{font-family:'Noto Sans JP',sans-serif;background:#fff;display:flex;flex-wrap:wrap;gap:20px;padding:20px;width:1400px}
 .th{position:relative;width:640px;height:400px;overflow:hidden;color:#fff;word-break:keep-all;overflow-wrap:anywhere;isolation:isolate}
-.th svg{position:absolute;inset:0;width:100%;height:100%;z-index:-1}
-.k{position:absolute;left:36px;top:32px;background:rgba(255,255,255,.18);color:#fff;font-size:17px;font-weight:700;padding:5px 16px;border-radius:999px}
-.n{position:absolute;left:36px;right:120px;bottom:62px;font-size:38px;font-weight:900;line-height:1.3;letter-spacing:.01em}
-.l{position:absolute;left:36px;bottom:30px;font-size:14px;font-weight:900;letter-spacing:.16em;opacity:.7}'''
+.bg{position:absolute;inset:0;width:100%;height:100%;z-index:-1}.i{position:absolute;left:32px;top:30px;width:48px;height:48px}
+.b{position:absolute;left:32px;right:60px;bottom:28px}.k{font-size:18px;font-weight:700;letter-spacing:.08em;opacity:.85;margin-bottom:4px}
+.d{font-size:35px;font-weight:900;line-height:1.35}'''
 out = os.path.join(tempfile.gettempdir(), 'ta_thumbs.html')
 open(out, 'w').write(f'<!doctype html><html lang="ja"><head><meta charset="utf-8"><style>{CSS}</style></head><body>{"".join(tile(*r) for r in rows)}</body></html>')
 json.dump({'html': out, 'dir': os.path.join(LPDIR, 'assets', 'thumbs'), 'slugs': [r[0] for r in rows]}, open(os.path.join(tempfile.gettempdir(), 'ta_thumbs.json'), 'w'))

diff --git a/lp/scripts/gen_replace_list.py b/lp/scripts/gen_replace_list.py
@@ -11,7 +11,7 @@ IMG = [
  ('I02', '高', 'ポートフォリオ・はじめての方へ', '見出し／SHOW／例', 'assets/portfolio/*.webp（12枚）', '実際の画面を匿名化したもの（X風ニックネーム）', '確定', 'そのまま使用（10/8 に確定）', 'Wix に入れ、表示を確認した'),
  ('I03', '高', 'コース詳細（SNS 以外の12ページ）', '成果物の画像', '（CSS で描いた仮画像）', 'カテゴリ色の仮画像＋「成果物の画像（準備中）」', '差し替え', '画像の型を選ぶ（D-A〜D-D、おすすめは D-B 成果物の模型。実物ができたら D-A に）→ 全コース分を用意。すべて「作例」と表示', '12コースすべてに成果物の画像が入り、「準備中」の表示がない'),
  ('I04', '高', '学び方・受講成果', '受講成果', 'assets/outcomes/*.webp（6枚）', '見本として作った成果物の画像（各画像に「作例」と表示）', '確定', 'そのまま使用（10/8 に確定。「作例」と明記済み）', 'Wix に入れ、各画像に「作例」が表示されている'),
- ('I05', '中', 'トップ・コースを探す・受講までの流れ', '人気のコース／コース一覧／流れ／関連するコース', 'assets/thumbs/*.webp（13枚）', 'C-4（カテゴリ色のグラデーション＋半透明の形）のサムネイル。gen_thumbs.py でコース一覧のデータから作成', '確定', 'そのまま使用。Wix ストアの商品画像にも同じ画像を入れる。コースを足したら gen_thumbs.py で作る', 'Wix の商品画像とサイトのサムネイルが同じ画像になっている'),
+ ('I05', '中', 'トップ・コースを探す・受講までの流れ', '人気のコース／コース一覧／流れ／関連するコース', 'assets/thumbs/*.webp（13枚）', 'C-4 の背景＋「つくるもの」（成果物の名前）のサムネイル。gen_thumbs.py でコース一覧のデータから作成。成果物の名前が決まったら作り直す（T05）', '確定', 'そのまま使用。Wix ストアの商品画像にも同じ画像を入れる。コースを足したら gen_thumbs.py で作る', 'Wix の商品画像とサイトのサムネイルが同じ画像になっている'),
  ('I06', '中', 'コース詳細（SNS）・ポートフォリオ', '成果物／フィード', 'assets/outcomes/sns-design.webp', 'SNS の成果物画像（見本）', '差し替え', 'I03 と同じ型で用意（「作例」と表示）', 'I03 と同じ型になっている'),
  ('I07', '中', 'コースを探す', '特集', 'assets/courses/feat-slack・feat-toeic.webp', 'Slack×GAS・TOEIC の特集画像', '確定', 'そのまま使用（10/8 に確定）', 'Wix に入れ、表示を確認した'),
  ('I08', '中', 'トップ・学びのヒント', '記事カード', 'assets/journal/ai・career・sns.webp', '記事のアイキャッチ（見本）', '差し替え', 'アイキャッチの型を選ぶ（E-A〜E-D、おすすめは E-B キーワード型）→ 記事ごとに作る', 'トップと学びのヒントに出る記事が、実際の記事のアイキャッチになっている'),

diff --git a/lp/scripts/k2block.py b/lp/scripts/k2block.py
@@ -1,10 +1,7 @@
 # ═════════ コース詳細（K2 成果物から見せる型）：全コース分を同じ型で作る ═════════
 C, CAT, chref = g['C'], g['CAT'], g['chref']
 TODO_S = lambda t='仮': f'<span class="x-todo">{t}</span>'
-DELIV = {'sns-marketing': 'SNSキャンペーン企画書', 'ai-efficiency': '業務改善の仕組み（AI活用）', 'toeic-700': '英語で伝える5分間プレゼン', 'event-design': 'イベント企画書・運営マニュアル',
-         'marketing-basic': 'マーケティング戦略シート', 'instagram': 'Instagramアカウント戦略シート', 'automation': 'GASで作るタスク管理ツール', 'chatgpt-basic': '仕事で使えるプロンプト集',
-         'line-official': '公式LINEの資料請求・予約の仕組み', 'business-english': '英語の自己紹介・ビジネスメール文例集', 'project-management': 'プロジェクト計画書（WBS）', 'canva-basic': 'SNS投稿・自己PRのデザインセット',
-         'slack-gas-task': 'Slackで完結するタスク管理'}
+DELIV = g['DELIV']  # 成果物の名前（gen_courses.py で定義。サムネイルと共通）
 CD = g['CD']  # 今のサイトのコース詳細（course_data.json）
 FOR_CAT = {'it': ['毎日の作業に、時間を取られすぎている', 'ツールを使いこなして、仕事を楽にしたい', '社内のデジタル化を任された'],
            'mk': ['発信や集客を任されたが、何から始めればいいか分からない', '投稿はしているが、反応や成果につながらない', '企画から振り返りまで、一通り経験しておきたい'],

diff --git a/lp/scripts/gen_courses.py b/lp/scripts/gen_courses.py
@@ -59,6 +59,11 @@ def cur_meta(slug):  # 期間の決まっていないコースは、今のサイ
 
 LINE_SM = '<svg viewBox="0 0 24 24" aria-hidden="true"><path fill="currentColor" d="M12 3.5c5 0 9 3.2 9 7.2 0 3.9-3.8 7.1-8.6 7.2-.5.4-2.7 2.3-4.2 2.6-.4.1-.4-.3-.3-.6l.5-2.4C5.3 16.3 3 13.7 3 10.7 3 6.7 7 3.5 12 3.5z"/></svg>'
 def chref(slug): return f'course-{slug}.html'  # コース詳細（K2）
+# 各コースで完成する成果物の名前（コース詳細の見出し・サムネイルの「つくるもの」に使う。まだ仮）
+DELIV = {'sns-marketing': 'SNSキャンペーン企画書', 'ai-efficiency': '業務改善の仕組み（AI活用）', 'toeic-700': '英語で伝える5分間プレゼン', 'event-design': 'イベント企画書・運営マニュアル',
+         'marketing-basic': 'マーケティング戦略シート', 'instagram': 'Instagramアカウント戦略シート', 'automation': 'GASで作るタスク管理ツール', 'chatgpt-basic': '仕事で使えるプロンプト集',
+         'line-official': '公式LINEの資料請求・予約の仕組み', 'business-english': '英語の自己紹介・ビジネスメール文例集', 'project-management': 'プロジェクト計画書（WBS）', 'canva-basic': 'SNS投稿・自己PRのデザインセット',
+         'slack-gas-task': 'Slackで完結するタスク管理'}
 def THUMB(slug): return f'assets/thumbs/{slug}.webp'  # コースのサムネイル（C-4：グラデーション＋半透明の形）
 def card(i, c):
     slug, title, cat, desc, price, dur, time, lv, img = c

diff --git a/lp/docs/TODO.md b/lp/docs/TODO.md
@@ -55,7 +55,7 @@
 ## 6. 画像の型を決める（見本ボードは lp/scripts/patterns）
 
 - [ ] トップのメイン画像：いまの写真（H-A）のままか、ほかの案（H-B 写真＋成果物カード がおすすめ）にするか
-- [x] コースのサムネイル：C-4（カテゴリ色のグラデーション＋半透明の形）に決定し、サイトに反映（lp/assets/thumbs、作り方は lp/scripts/README.md）
+- [x] コースのサムネイル：背景 C-4（カテゴリ色のグラデーション＋半透明の形）＋中身 X-2（つくるもの＝成果物の名前）に決定し、サイトに反映。成果物の名前が確定したら gen_thumbs.py で作り直す（lp/assets/thumbs、作り方は lp/scripts/README.md）
 - [ ] コースの成果物画像：D-A〜D-D から選ぶ（おすすめ D-B 成果物の模型 → 実物ができたら D-A）。すべて「作例」と表示
 - [ ] 記事のアイキャッチ：E-A〜E-D から選ぶ（おすすめ E-B キーワード型。当面は E-C で今ある画像を仮に使う）
 - [ ] コースのラインナップ：今のサイトで販売停止中の「初級編 ChatGPT」「プロジェクトマネジメント」、今のサイトにない「SNSマーケティング実践」「生成AI 業務改善」を載せ続けるか

diff --git a/lp/scripts/README.md b/lp/scripts/README.md
@@ -28,9 +28,9 @@ bash lp/scripts/build.sh
 | `gen_legal_review.py` | 法務ページの文面レビュー用ページ（一時フォルダに legal-draft.html を書き出す） |
 | `slim_zips.py` | `downloads/` の素材 ZIP を、中身を変えずに軽くする（`pip install pyoxipng` が必要） |
 
-## コースのサムネイル（C-4）
+## コースのサムネイル（背景 C-4＋つくるもの X-2）
 
-`lp/assets/thumbs/<slug>.webp`（1280×800）は、コース一覧のデータ（gen_courses.py の C）から作っています。コースを足したら（必要なら `gen_thumbs.py` の NAME に改行位置を1行足して）、次を実行します（Node と Playwright が必要）。
+`lp/assets/thumbs/<slug>.webp`（1280×800）は、コース一覧のデータ（gen_courses.py の C）から作っています。コースを足したら、gen_courses.py の DELIV（成果物の名前）と gen_thumbs.py の ICON に1行ずつ足して、次を実行します（Node と Playwright が必要）。
 
 ```bash
 python3 lp/scripts/gen_thumbs.py && NODE_PATH=$(npm root -g) node lp/scripts/gen_thumbs.js && python3 lp/scripts/thumbs_webp.py
